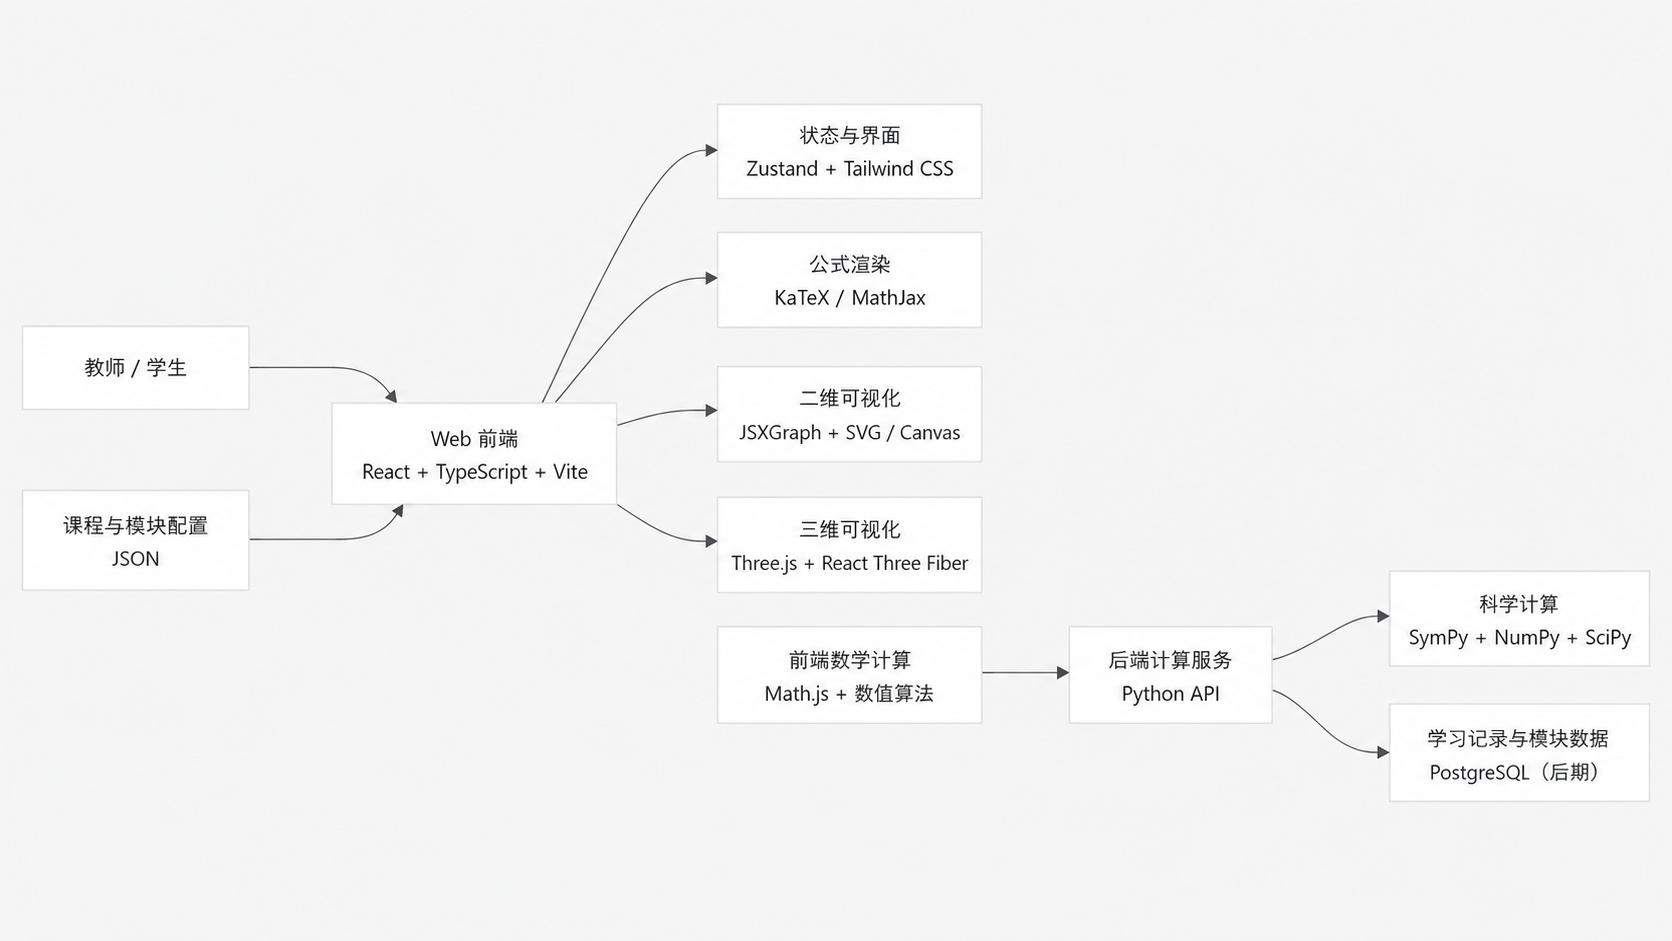
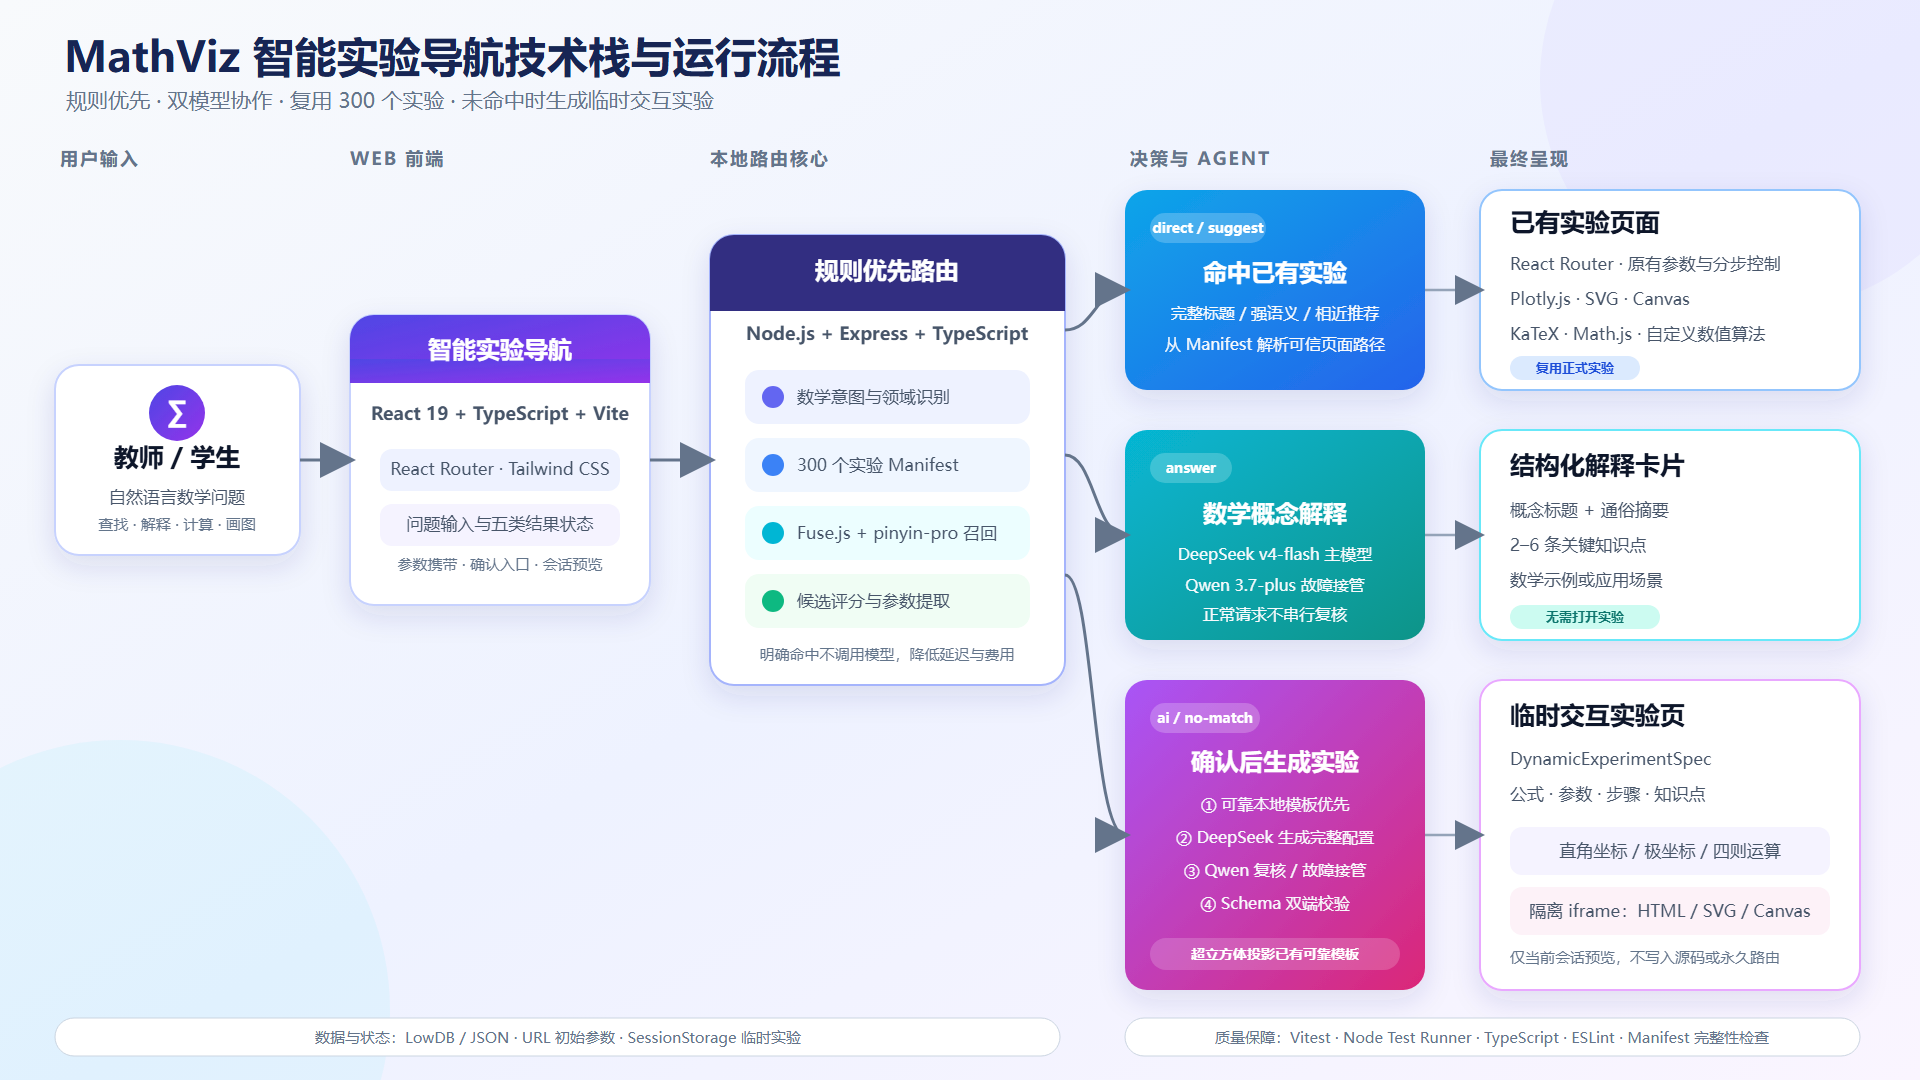
docs: update agent flow and demo guide

diff --git a/README.md b/README.md
@@ -4,7 +4,9 @@
 
 本仓库当前作为“数学教学可视化展示系统建设”项目的开发基础，现阶段重点是整理已有实验模块、建立统一模块规范，并实现自然语言问题到可视化实验的智能路由。
 
-![技术栈架构图](./数学教学可视化系统-技术栈架构图.png)
+![MathViz 智能实验导航技术栈与运行流程](./数学教学可视化系统-技术栈架构图.png)
+
+可编辑的矢量源图见 [`数学教学可视化系统-技术栈架构图.svg`](./数学教学可视化系统-技术栈架构图.svg)。
 
 ## 项目目标
 
@@ -52,6 +54,7 @@
 - 后端已具备规则驱动的数学意图识别、实验匹配和路由决策 MVP。
 - 首页支持使用自然语言查找并带参数进入已有数学实验。
 - 用户确认后可以为未命中需求生成临时交互实验，且页面结构与现有实验保持一致。
+- 数学定义、概念含义和原理类问题可以直接由 Agent 输出结构化解释，不会被强行路由到不相关实验。
 
 > 当前仓库包含较多独立实验页面。后续开发的重点不是单纯增加页面数量，而是统一模块定义、参数协议、路由方式和质量标准。
 
@@ -71,6 +74,18 @@
 | Agent 路由与生成 | 规则意图分类、实验注册表、候选评分、参数提取、数学解释、DeepSeek 主路由/生成、千问复核与故障接管 |
 | 后端测试 | Node.js Test Runner、tsx |
 | 当前数据存储 | LowDB / JSON |
+
+## 客户演示示例
+
+| 输入问题 | 预期展示 | 核心能力 |
+| --- | --- | --- |
+| `用方块演示 23 - 8` | 打开加减乘除可视化，并自动设置减法、23 和 8 | 已有实验匹配与参数提取 |
+| `我想看看椭圆、双曲线和抛物线有什么区别` | 推荐或打开圆锥曲线实验 | 口语化语义匹配 |
+| `展示洛伦兹吸引子的蝴蝶效应` | 匹配洛伦兹吸引子实验 | 数学知识与表现方式联合召回 |
+| `什么是群论中的群？` | 显示概念摘要、关键点和例子 | Agent 数学解释 |
+| `画一个四维超立方体的三维投影` | 确认后生成可调维度、旋转角和透视强度的临时实验 | 未命中后的可靠模板生成 |
+
+推荐按“参数化已有实验 → 语义匹配 → 数学解释 → 生成新实验”的顺序向客户演示，能够完整体现该入口不是普通搜索框，而是一个规则优先、Agent 增强的数学教学任务路由器。
 
 ## 项目结构
 
@@ -111,7 +126,7 @@ mathviz/
 ### 获取并安装依赖
 
 ```bash
-git clone https://github.com/zhangifonly/mathviz.git
+git clone https://github.com/WaterXiao-git/mathviz.git
 cd mathviz
 npm run install:all
 ```
